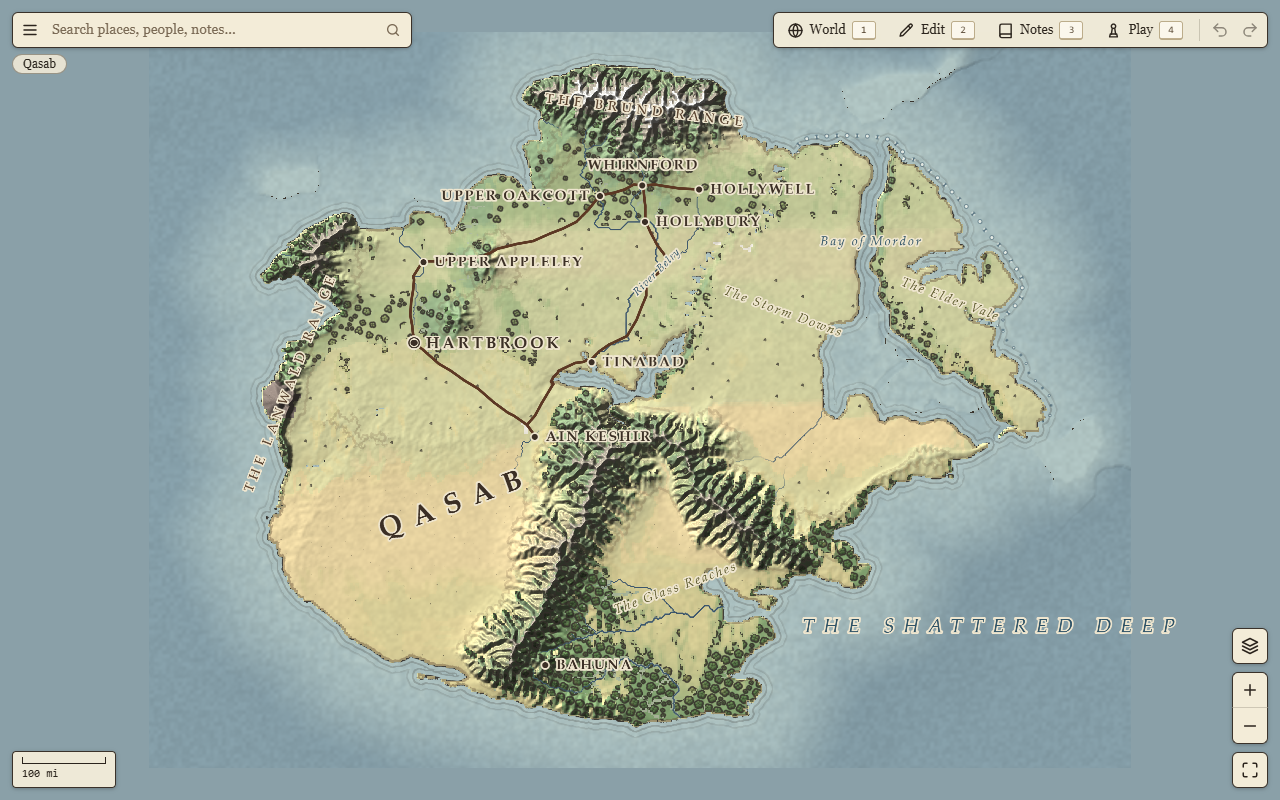
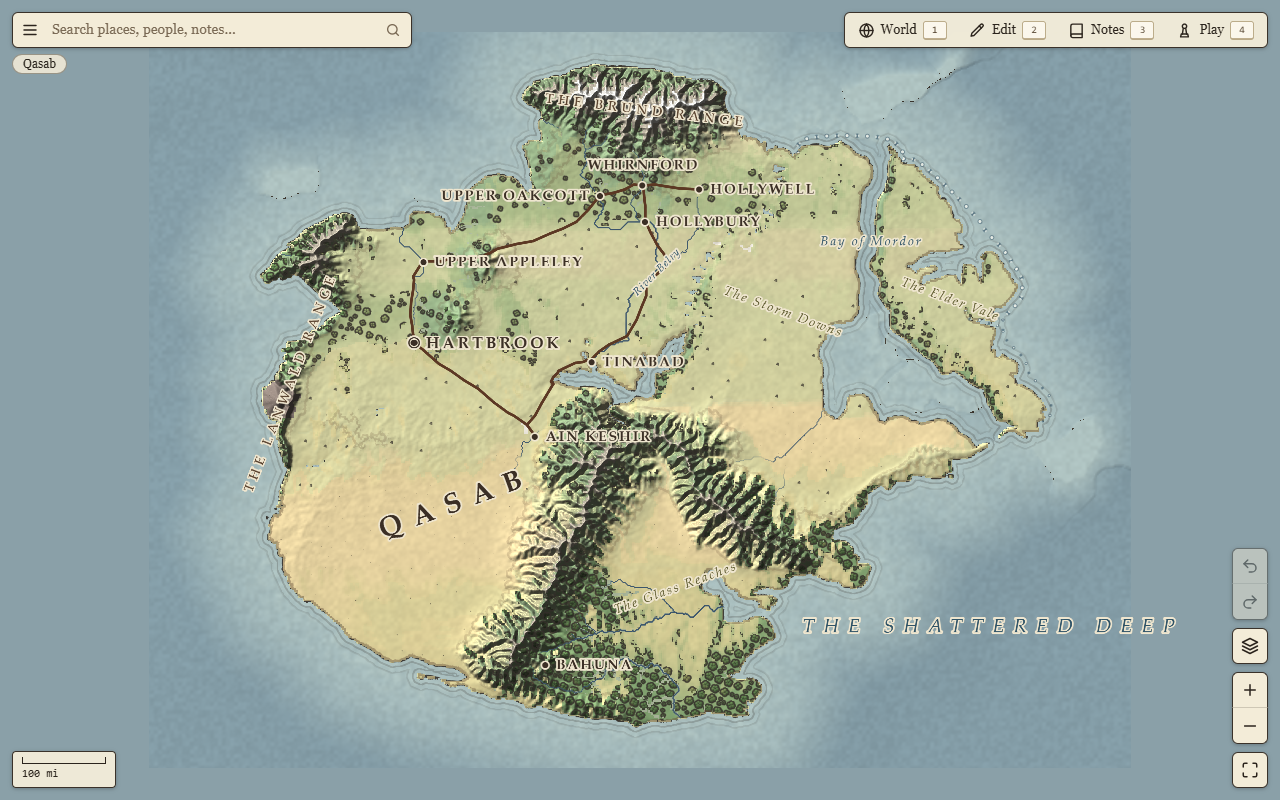
Refresh README text and pictures for v65
The Edit section names every regrouped tool (Town wall, Join or
leave, Fences & hedges, Stairs & passages, Lay out by hand) and what
Select now deletes; World's first tab is Settings. The zoom shows the
overland hexes on the way down, and the cave still skips ice caves.

Changed region(s): [[0.5938, 0.0, 1.0, 0.0625], [0.9375, 0.6875, 1.0, 0.7812]]

diff --git a/README.md b/README.md
@@ -44,23 +44,31 @@ It's free, needs no account, and works on a laptop, tablet or phone with a curre
 
 | Section | What it's for |
 |---|---|
-| **World** (1) | **Generate** a world from a seed, size and climate. **Sketch** the continent you want and the generator follows. **Library** saves, opens, backs up and shares your worlds. |
+| **World** (1) | **Settings** makes a world from a seed, size and climate. **Sketch** the continent you want and the generator follows. **Library** saves, opens, backs up and shares your worlds. |
 | **Edit** (2) | Change the world and make it yours. See below. |
 | **Notes** (3) | Your campaign's **NPCs** and **plots**, pinned to the map, and the **Gazetteer**: every name in the world to rename (each settlement with the places that stand in it), places to hide from the map, and the notes only you see. |
 | **Play** (4) | Run a session: tokens, fog of war, line of sight, lights, doors and secret doors, and a second **players' window** for a TV or another screen that shows only what the players have seen. Each world's session is kept in this browser, and comes along when the world is remade (a settlement added or taken back, the sketch redrawn). |
 
 ### What you can edit
 
-Open **Edit**: it starts on **Select** (A), which shows what anything on the map is; click, or drag a box or a lasso. Pick what to change (Settlements, Buildings, Roads & water, Land, Rooms), then a tool in that group, or press the tool's letter. Every change can be undone.
+Open **Edit**: it starts on **Select** (A). Click anything on the map to see what it is, or drag a box (Shift: a
+lasso) for many; its card deletes or changes what you picked: buildings, roads, streets, lanes, paths and fences,
+generated or yours, one by one or all in the box. Pick what to change (Settlements, Buildings, Roads & water, Land,
+Rooms), then a tool in that group, or press the tool's letter. Each tool keeps its finer options under **More
+options**. Every change can be undone, and the Gazetteer lists the roads and fences you took away, to bring back.
 
 | Group › tool | What you can do |
 |---|---|
 | **Settlements › Places** (S) | Add a village, town, city or metropolis (the world is remade round it; Take back, Undo or Remove on its card takes it away again, and what was made on it is kept in Notes), or your own ruins, dungeons, crypts, catacombs, caves, mines, lava tubes, towers, camps and roadside inns, with their size, depth and theme. |
-| **Buildings** | **Draw a building** (B: rectangles, polygons, round towers), **One building** (Q), a **Row of houses** (E) along a street, **Fill an area** (L), **Castle & walls** (K, W: raise castles and walls anywhere). **Roads & water** puts roads (V), bridges, fords and ferries (X) across a river, bank to bank, water (I) and **Docks & islets** (H). |
-| **Settlements › Streets** (U) | Re-plan the town in view: drag its ward corners, or move them with brushes (Push, Smudge, Grow, Shrink, Soften, Even out). Give a ward another use, change its lots, merge or reroll them, put walls up or down, or clear a ward and build your own. |
+| **Settlements › Streets** (U) | Re-plan the town in view: drag its ward corners, or move them with brushes (Push, Smudge, Grow, Shrink, Soften, Even out). Give a ward another use, change its lots, merge or reroll them, or clear a ward and build your own. Or **Lay out by hand**: the town's streets become yours to draw, join, widen or delete, each block filled with houses, lots of your choosing or left open, and a street lined with houses. |
+| **Settlements › Town wall** (Shift+U) | Put the walls up or down, and click a corner on the wall for a gate or a tower. |
+| **Settlements › Join or leave** (Shift+J) | What you build within 300 ft of a town joins it (its people, style and shops); pick what should be part of a town, or taken out of one. Outskirts taken out become a place of their own. |
+| **Buildings** | **Draw a building** (B: rectangles, polygons, round towers), set down **One building** (Q) facing the nearest street, line a street with a **Row of houses** (E, and lay a road along it if you like), **Fill an area** (L) with buildings, lots or open ground, or raise a **Castle & walls** (K, W) anywhere. |
+| **Roads & water** | Draw **Roads** (V), put a bridge, ford or ferry across a river bank to bank (**Crossing**, X), paint or outline **Water** (I: lakes, ponds, moats, inlets), and build **Docks & islets** (H): quays, piers and breakwaters. |
 | **Land › Ground** (M) | Shape a battlemap's ground: raise, lower, smooth or put it back with a brush, or draw a plateau, a cliff or a pit (a castle on a cliff) and change its level later. Buildings, streets and walls stand on it; a city street climbing steeply turns to steps. |
+| **Land › Fences & hedges** (F) | Draw hedgerows, clipped hedges, stone walls, rails, wattle, pickets, iron railings, stockades and high walls; put gates in them; erase a stretch of any fence, the generated ones too. |
 | **Land › Props** (C) | Place objects on a battlemap one at a time (turned, picked up and moved again), brush them on, or erase them. Upload your own pictures to use as objects. Objects go outdoors (the ghost turns red where a roof would hide one); furniture, props and traps inside a building or down a site go in Rooms. |
-| **Rooms** (D) | Go inside a building, dungeon, cave or mine and design it room by room: walls, doors, stairs, storeys, cellars, and furniture and props placed as on the battlemap (turned, picked up and moved again). |
+| **Rooms** (D) | Go inside a building, dungeon, cave or mine and design it room by room: walls, doors, stairs, storeys, cellars, and furniture and props placed as on the battlemap (turned, picked up and moved again). **Stairs & passages** (J) joins a square below ground to another level or another place. |
 
 **Sketch** (World › Sketch) works at the scale of the continent, and generating from it remakes the world to fit:
 draw coastlines, land and sea, ranges, massifs, rivers, lakes, biomes, volcanoes, **towns and cities**, planned sites
